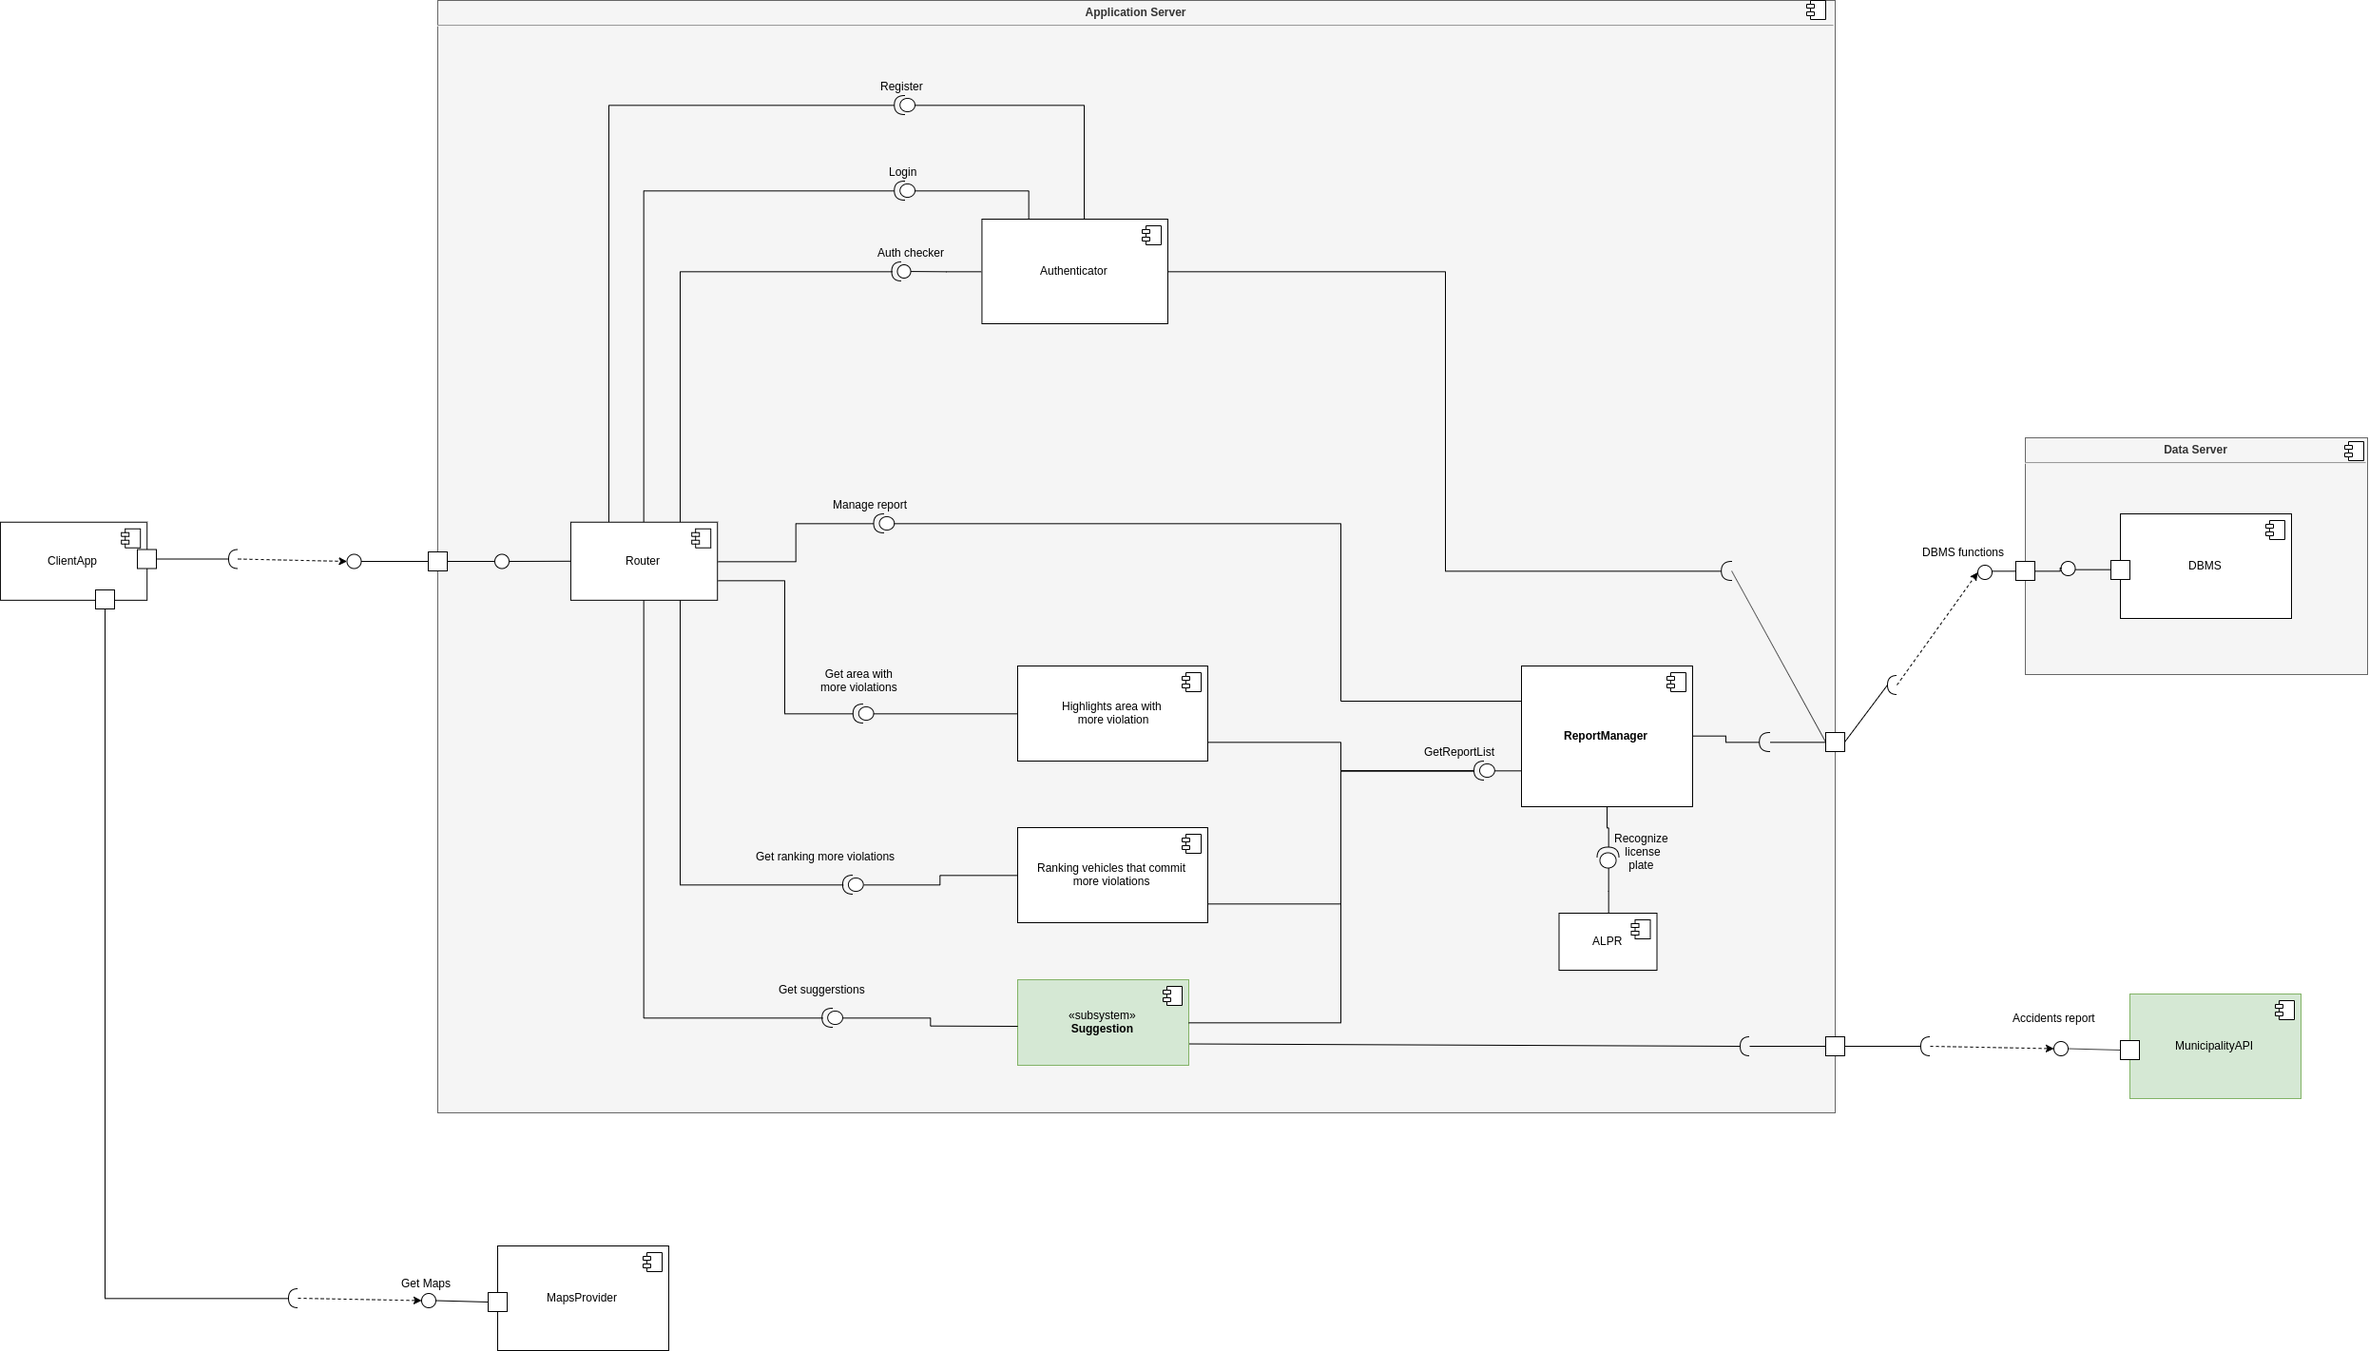
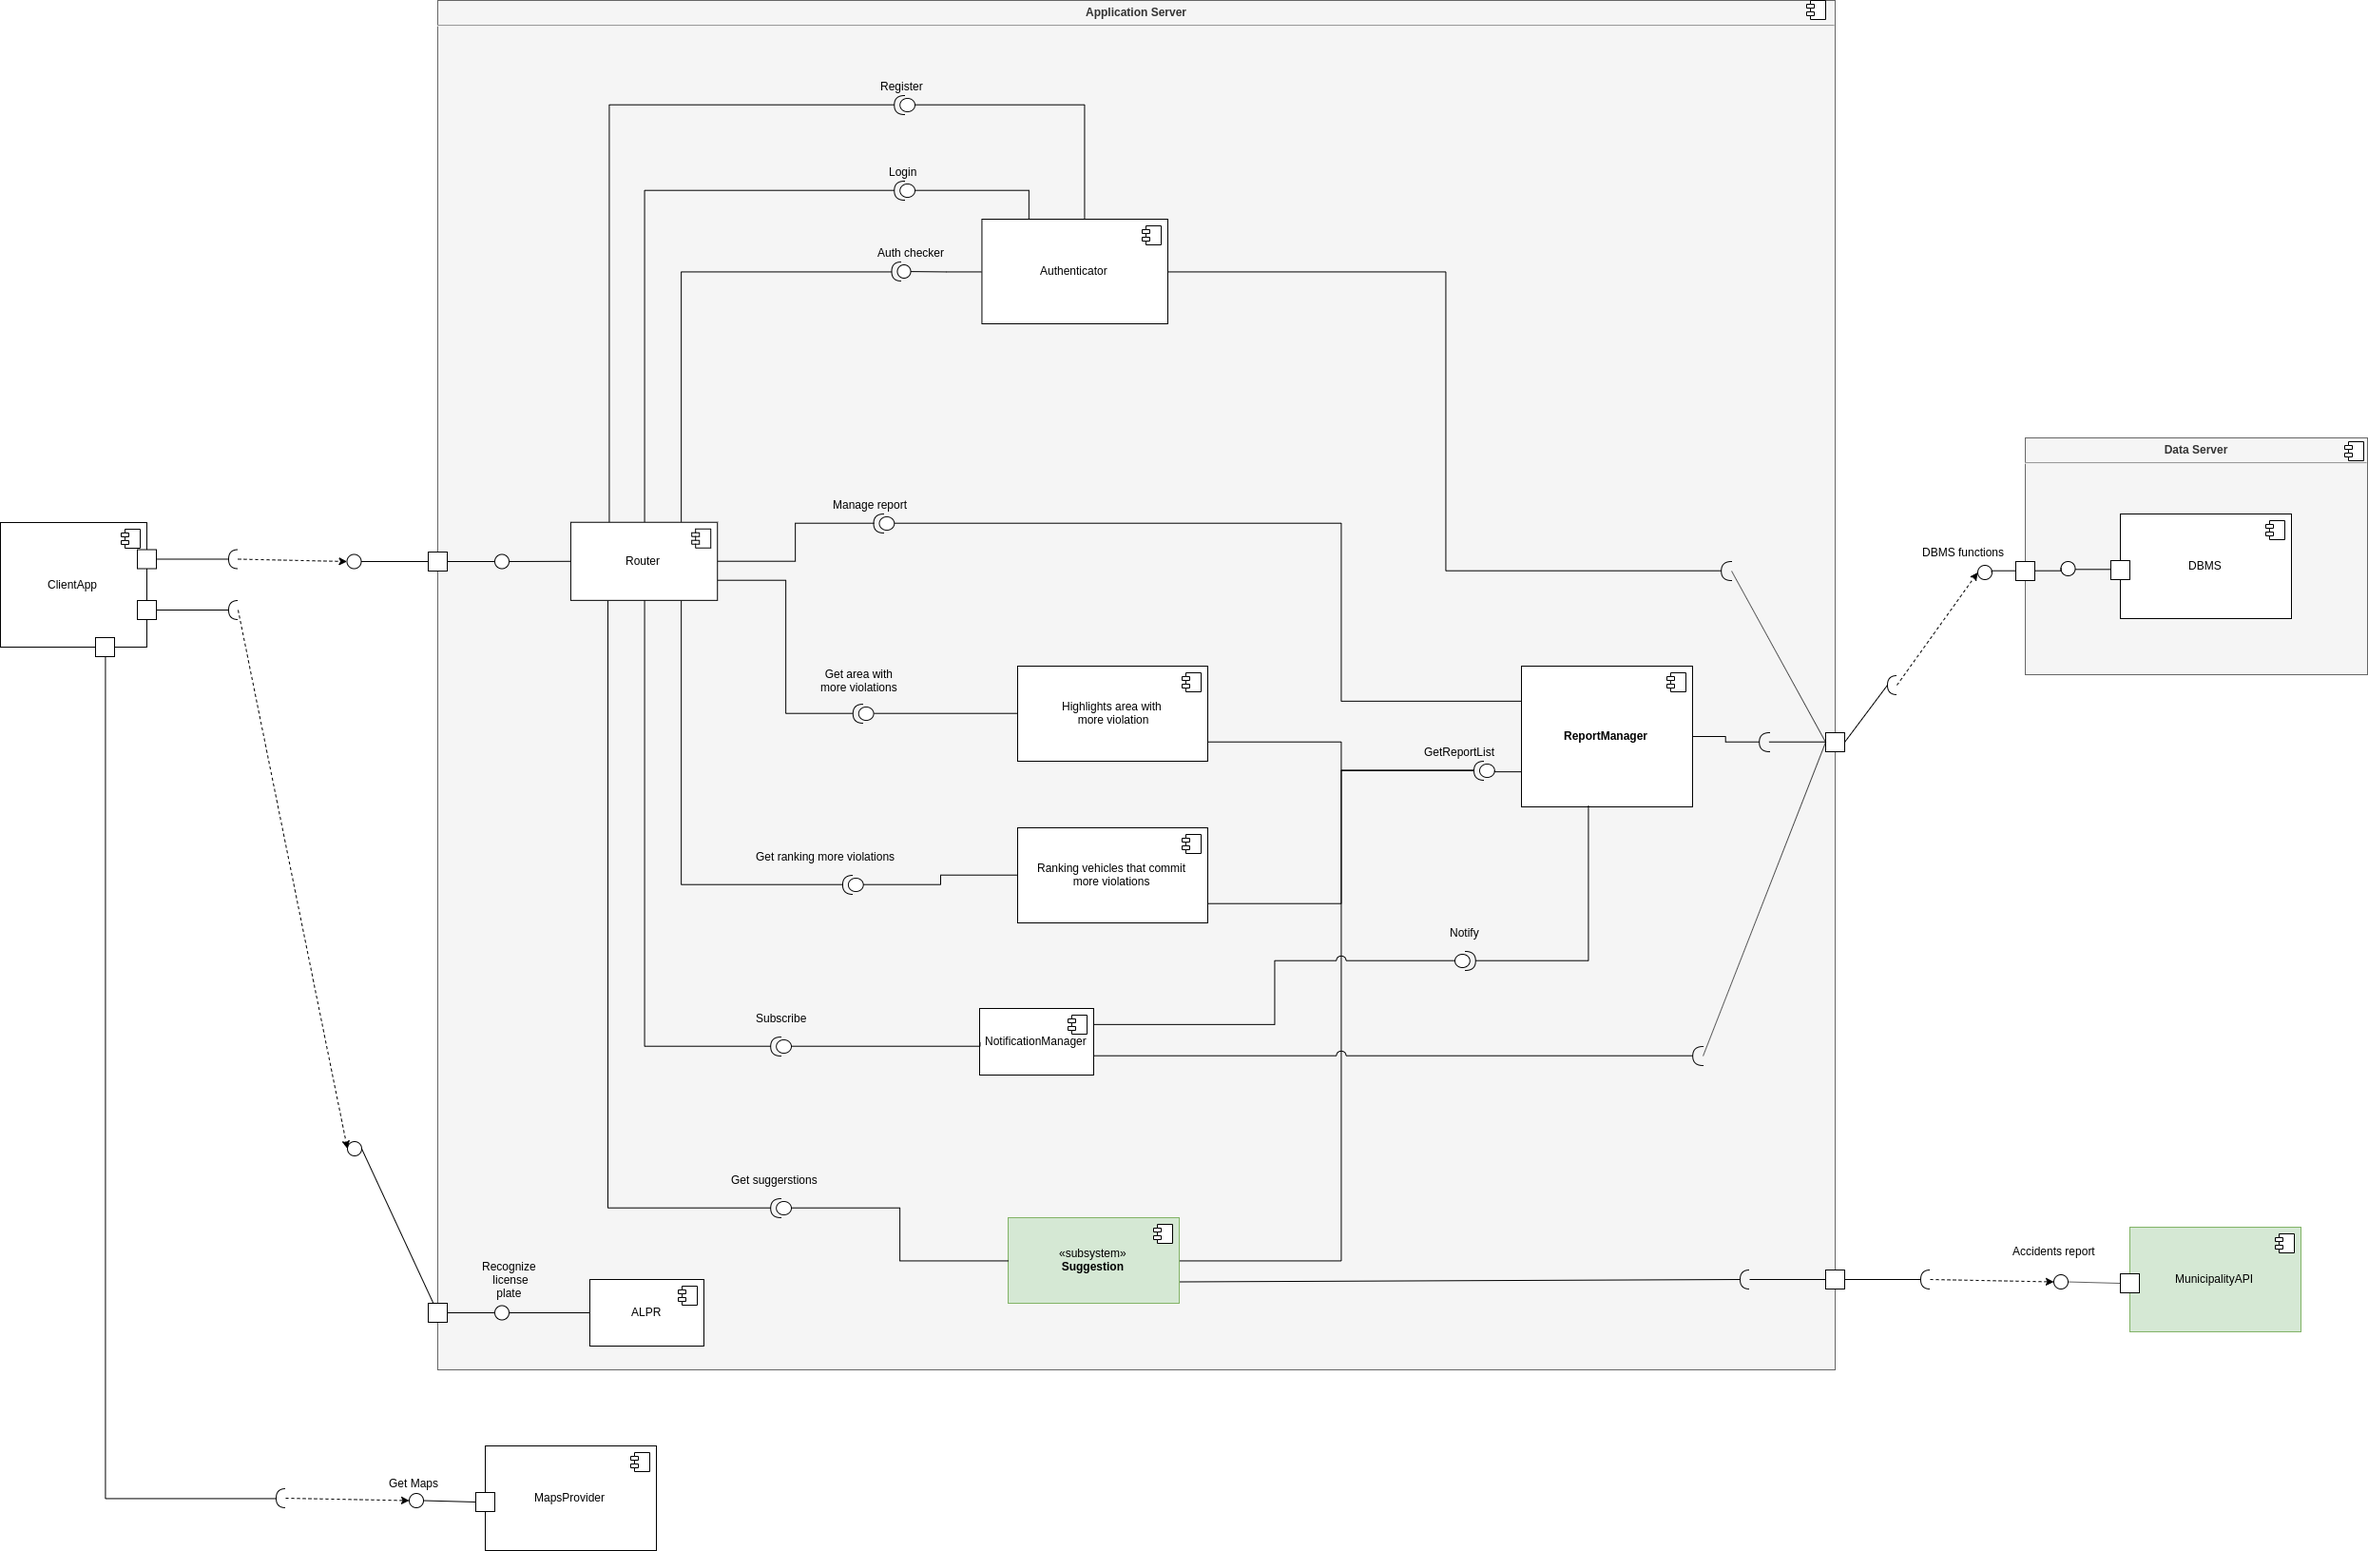
Add sequence diagram for violation report

diff --git a/DD/DD-SafeStreets.tex b/DD/DD-SafeStreets.tex
@@ -166,6 +166,7 @@ the application server uses to offer its functionalities.
 	\item \textbf{RankingManager}: Elaborates the valid reports to create a ranking of the vehicles that committed more violations.
 	\item \textbf{SuggestionSubsystem}: More in detail:
 		\\
+	\item \textbf{NotificationManager}: Manage all the subscriptions for notification made by the client's app when a traffic warden log in and send the notification to them when a new report is added.
 \begin{figure}[ht]
 \centering
 	\includegraphics[width=1.0\textwidth]{images/SuggestionSubsystem-components-diagram.png}
